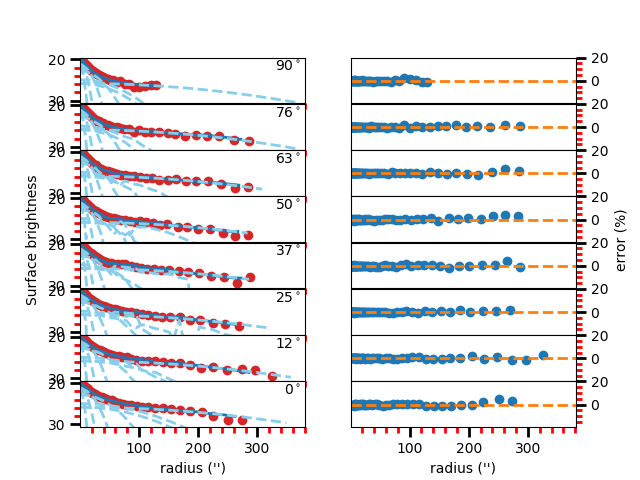
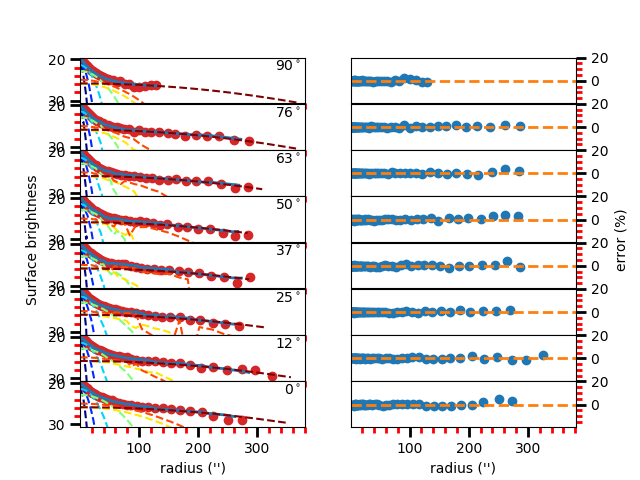
Colors was added to sub component plots
Changes to be committed:
	modified:   EllipSectGalfit.py
	modified:   img/A85.mul.sub.png
	modified:   img/A85.sub.png

diff --git a/EllipSectGalfit.py b/EllipSectGalfit.py
@@ -9,7 +9,11 @@ import os.path
 import scipy
 import scipy.special
 import matplotlib.pyplot as plt
+import matplotlib.colors as colors
+import matplotlib.cm as cmx
 import mimetypes
+
+
 
 from mgefit.sectors_photometry import sectors_photometry
 
@@ -568,8 +572,8 @@ def PlotSB(xradq,ysbq,ysberrq,xradm,ysbm,ysberrm,params,scale):
     axsec.set_xlabel("radius ('')")
     axsec.set_ylabel("mag/''")
 
-    axsec.errorbar(xradq, ysbq,yerr=ysberrq,fmt='o-',capsize=2,color='red',markersize=0.7,label="galaxy")
-    axsec.errorbar(xradm, ysbm,yerr=ysberrm,fmt='o-',capsize=2,color='blue',markersize=0.7,label="Model")
+    axsec.errorbar(xradq, ysbq,yerr=ysberrq,fmt='o-',capsize=2,color='red',markersize=0.7,label="galaxy",linewidth=2)
+    axsec.errorbar(xradm, ysbm,yerr=ysberrm,fmt='o-',capsize=2,color='blue',markersize=0.7,label="Model",linewidth=2)
     if params.flagranx[1] == False:
         axsec.set_xlim(xran)
     else:
@@ -697,8 +701,13 @@ def SubComp(namesub,N,Comps,NameComps,mgzpt,exptime,scale,xc,yc,q,ang,flagpix,ax
     # and angle is different as well:
     angsec=90-ang
 
-    ####################
+    #color value
+    values = range(N)
+    jet = cm = plt.get_cmap('jet') 
+    cNorm  = colors.Normalize(vmin=0, vmax=values[-1])
+    scalarMap = cmx.ScalarMappable(norm=cNorm, cmap=jet)
 
+    ####################
     ab=q
     n=0
     while(n<N):
@@ -739,8 +748,8 @@ def SubComp(namesub,N,Comps,NameComps,mgzpt,exptime,scale,xc,yc,q,ang,flagpix,ax
 
         xradq, ysbq, ysberrq    = FindSB(xarcg, ymgeg, n_sectors)
 
-
-        PlotSub(xradq,ysbq,n,axsec,namec)
+        colorVal = scalarMap.to_rgba(values[n])
+        PlotSub(xradq,ysbq,n,axsec,namec,colorVal)
 
         n=n+1
 
@@ -748,7 +757,7 @@ def SubComp(namesub,N,Comps,NameComps,mgzpt,exptime,scale,xc,yc,q,ang,flagpix,ax
     return  xradq,ysbq,n
 
 
-def PlotSub(xradq,ysbq,nsub,axsec,namec):
+def PlotSub(xradq,ysbq,nsub,axsec,namec,colorval):
     """
     Produces subcomponent plot
 
@@ -756,7 +765,9 @@ def PlotSub(xradq,ysbq,nsub,axsec,namec):
 
     substr=namec+" "+np.str(nsub+1)
 
-    axsec.plot(xradq, ysbq,'--',color='skyblue',linewidth=4,markersize=0.7,label=substr)
+#   axsec.plot(xradq, ysbq,'--',color='skyblue',linewidth=4,markersize=0.7,label=substr)
+    axsec.plot(xradq, ysbq,'--',color=colorval,linewidth=1.5,markersize=0.7,label=substr)
+
 
 
 def MulEllipSectors(galpar, params, n_sectors=19, minlevel=0):
@@ -1032,6 +1043,12 @@ def MulEllipSectors(galpar, params, n_sectors=19, minlevel=0):
 
         if params.flagsub == True:
             ii=0
+                #color value
+            values = range(params.N)
+            jet = cm = plt.get_cmap('jet') 
+            cNorm  = colors.Normalize(vmin=0, vmax=values[-1])
+            scalarMap = cmx.ScalarMappable(norm=cNorm, cmap=jet)
+
             while(ii<params.N):
 
                 wtemp = np.nonzero(mgeanglesub[ii] == sectors[j])[0]
@@ -1039,14 +1056,16 @@ def MulEllipSectors(galpar, params, n_sectors=19, minlevel=0):
 
                 rtemp = mgeradsub[ii][wtemp]
 
-
+                colorval = scalarMap.to_rgba(values[ii])
                 if params.flaglogx == False:
 
-                    axsec[row, 0].plot(rtemp, mgesbsub[ii][wtemp],'--',color='skyblue', linewidth=2)
+#                    axsec[row, 0].plot(rtemp, mgesbsub[ii][wtemp],'--',color='skyblue', linewidth=2)
+                    axsec[row, 0].plot(rtemp, mgesbsub[ii][wtemp],'--',color=colorval, linewidth=1.5)
+
 
                 else:
 
-                    axsec[row, 0].semilogx(rtemp, mgesbsub[ii][wtemp], '--',color='skyblue', linewidth=2)
+                    axsec[row, 0].semilogx(rtemp, mgesbsub[ii][wtemp], '--',color=colorval, linewidth=1.5)
 
 
                 ii+=1
